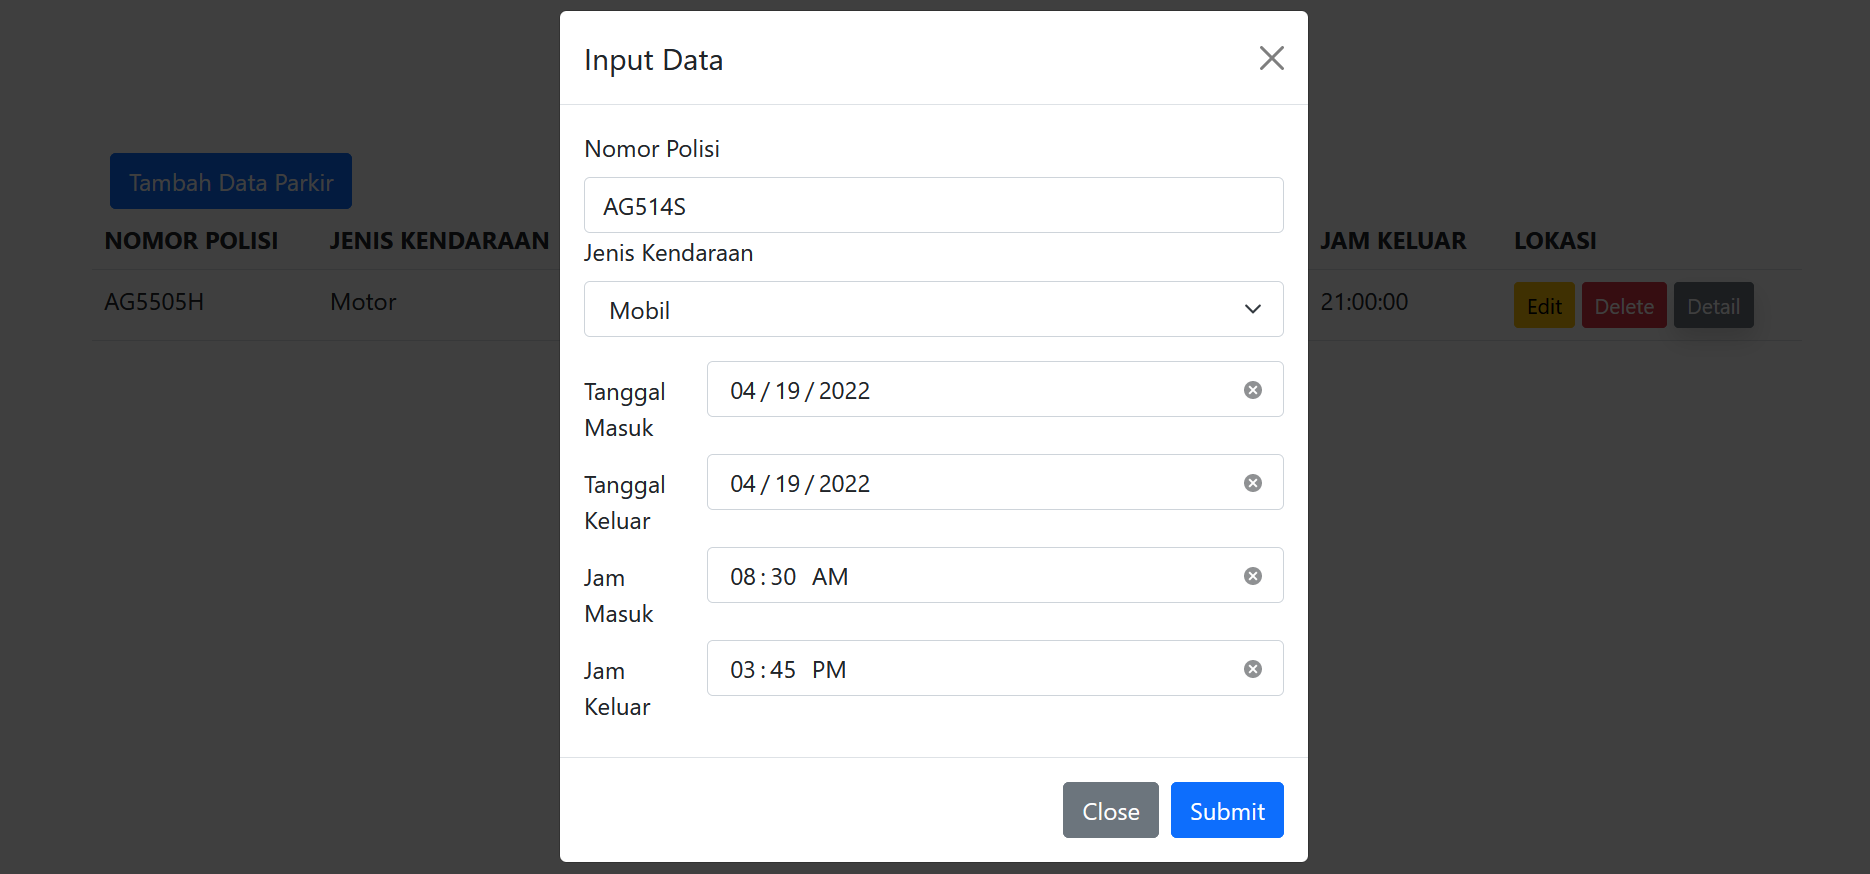
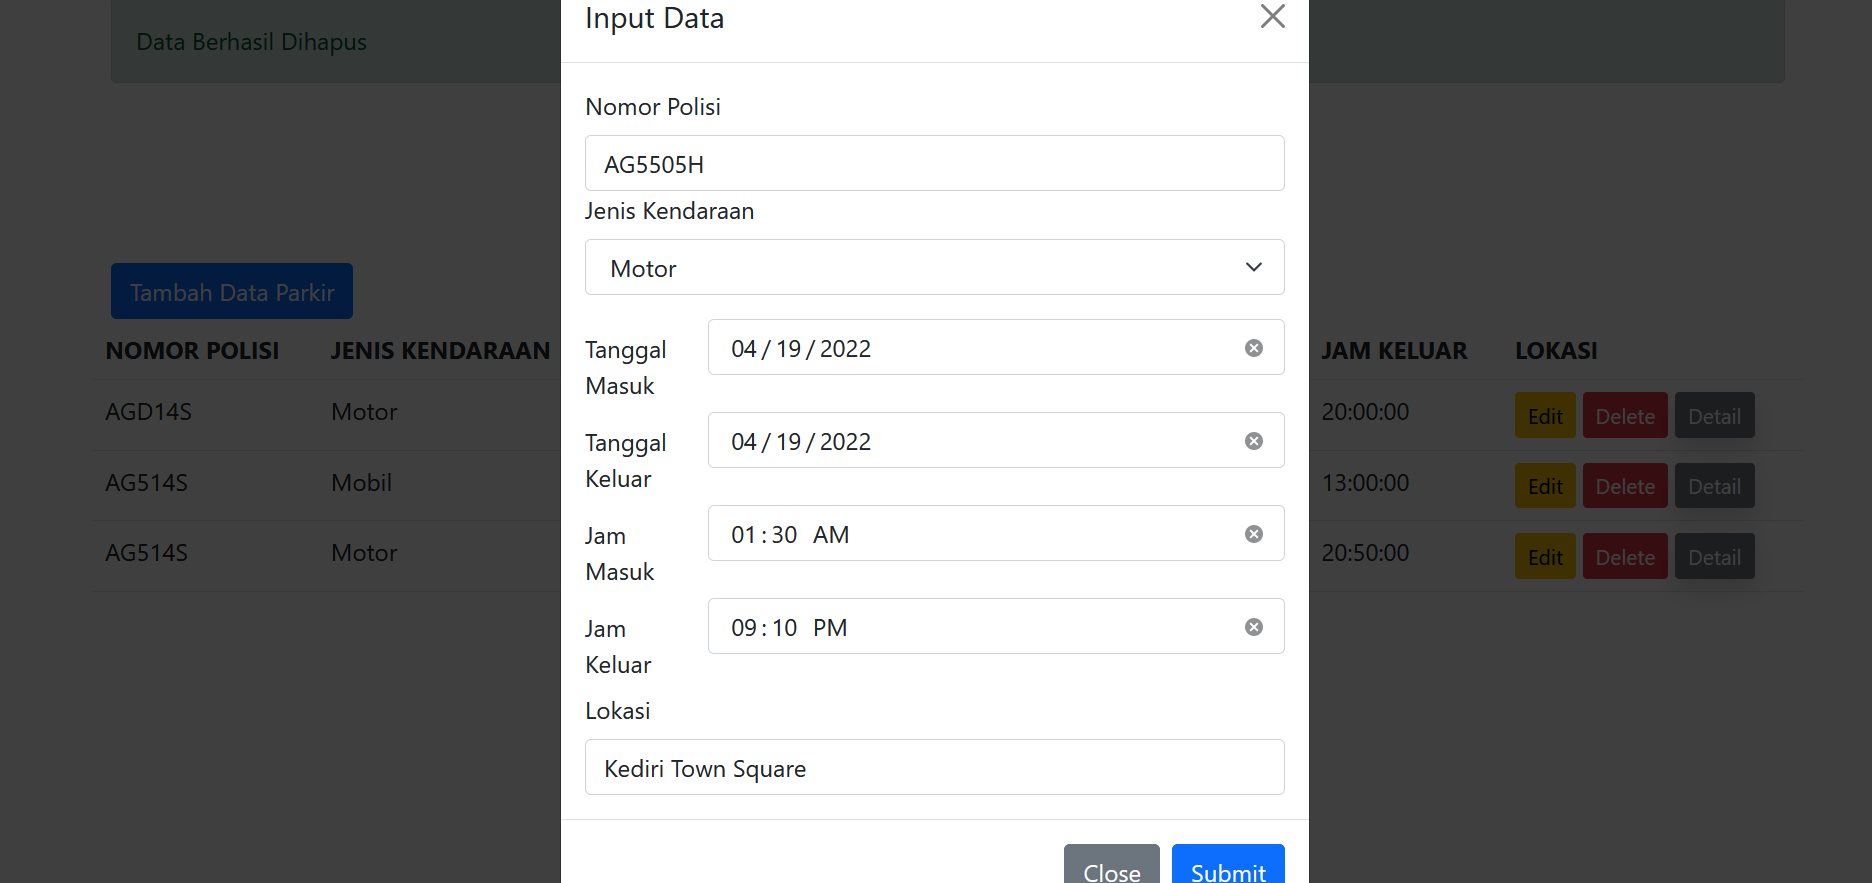
insert

diff --git a/resources/views/parkir/index.blade.php b/resources/views/parkir/index.blade.php
@@ -40,7 +40,6 @@
                         <td>{{$parkir->tgl_keluar}}</td>
                         <td>{{$parkir->jam_masuk}}</td>
                         <td>{{$parkir->jam_keluar}}</td>
-                      
                         <td>
                             <a href="/parkir/{{$parkir->nomor_tiket}}/edit" class="btn btn-warning btn-sm"></i>Edit</a>
                             <a href="/parkir/{{$parkir->nomor_tiket}}/delete" class="btn btn-danger btn-sm" onclick="return confirm('Apakah Anda Yakin Menghapus Data?');"></i>Delete</a>
@@ -105,12 +104,12 @@
                         </div>
                     </div>
 
-                    {{-- <div class="form-group">
+                    <div class="form-group">
                         <label for="exampleInputEmail1" class="form-label">Lokasi</label>
-                        <input name="tempat" type="text" class="form-control" id="exampleInputEmail1" aria-describedby="emailHelp">
+                        <input name="nama" type="text" class="form-control" id="exampleInputEmail1" aria-describedby="emailHelp">
                     </div>
 
-                    <div class="form-group">
+                    {{-- <div class="form-group">
                         <label for="exampleInputEmail1" class="form-label">Lantai</label>
                         <input name="lantai" type="number" class="form-control" id="exampleInputEmail1" aria-describedby="emailHelp">
                     </div> --}}

diff --git a/app/Http/Controllers/ParkirController.php b/app/Http/Controllers/ParkirController.php
@@ -4,7 +4,7 @@ namespace App\Http\Controllers;
 
 use Illuminate\Http\Request;
 use App\Models\Parkir;
-use App\Models\lokasiParkir;
+use App\Models\Location;
 
 class ParkirController extends Controller
 {
@@ -24,20 +24,24 @@ class ParkirController extends Controller
             'jam_masuk' => 'required',
             'jam_keluar' => 'required',
         ]);*/
-        Parkir::create($request->all());
-        /*$data_parkir = $request->all();
+        //Parkir::create($request->all());
+        $data_parkir = $request->all();
+
+        $lokasiParkir = new Location;
+        $lokasiParkir->nama = $data_parkir['nama'];
+        $lokasiParkir->save();
+
+
         $parkir = new Parkir;
+        $parkir->location_id = $lokasiParkir->id;
         $parkir->nomor_polisi = $data_parkir['nomor_polisi'];
         $parkir->jenis_kendaraan = $data_parkir['jenis_kendaraan'];
         $parkir->tgl_masuk = $data_parkir['tgl_masuk'];
         $parkir->tgl_keluar = $data_parkir['tgl_keluar'];
         $parkir->jam_masuk = $data_parkir['jam_masuk'];
         $parkir->jam_keluar = $data_parkir['jam_keluar'];
+        $parkir->save();
 
-        $lokasiParkir = new lokasiParkir;
-        $lokasiParkir->parkir_id = $parkir->nomor_tiket;
-        $lokasiParkir->tempat = $data_parkir['tempat'];
-        $lokasiParkir->lantai = $data_parkir['lantai'];*/
         return redirect('/')->with('sukses', 'Data Berhasil Ditambahkan');
     }
 

diff --git a/resources/views/parkir/create.blade.php b/resources/views/parkir/create.blade.php
@@ -77,6 +77,14 @@
                                                 @enderror
                                         </div>
 
+                                        <div class="form-group">
+                                            <label for="nama">Lokasi</label>
+                                            <input class="form-control" type="text" name="nama" value="{{ old('nama') }}" class="@error('nama') is-invalid @enderror">
+                                            @error('nama')
+                                                       <div class="alert alert-danger">{{ $message }}</div>
+                                               @enderror
+                                        </div>
+
                                         <div class="form-group" align="right">
                                             <input class="btn btn-primary" type="submit" value="Submit">
                                         </div>

diff --git a/database/migrations/2022_04_19_025729_create_locations_table.php b/database/migrations/2022_04_19_025729_create_locations_table.php
@@ -1,0 +1,32 @@
+<?php
+
+use Illuminate\Database\Migrations\Migration;
+use Illuminate\Database\Schema\Blueprint;
+use Illuminate\Support\Facades\Schema;
+
+class CreateLocationsTable extends Migration
+{
+    /**
+     * Run the migrations.
+     *
+     * @return void
+     */
+    public function up()
+    {
+        Schema::create('locations', function (Blueprint $table) {
+            $table->id();
+            $table->string('nama');
+            $table->timestamps();
+        });
+    }
+
+    /**
+     * Reverse the migrations.
+     *
+     * @return void
+     */
+    public function down()
+    {
+        Schema::dropIfExists('locations');
+    }
+}

diff --git a/resources/views/parkir/edit.blade.php b/resources/views/parkir/edit.blade.php
@@ -61,7 +61,7 @@
 
                 {{-- <div class="mb-3">
                     <label for="exampleInputEmail1" class="form-label">Lokasi</label>
-                    <input name="tempat" type="text" class="form-control" id="exampleInputEmail1" aria-describedby="emailHelp" value="{{$lokasiParkir->tempat}}">
+                    <input name="nama" type="text" class="form-control" id="exampleInputEmail1" aria-describedby="emailHelp" value="{{$lokasiParkir->nama}}">
                 </div>
 
                 <div class="mb-3">

diff --git a/app/Models/Parkir.php b/app/Models/Parkir.php
@@ -4,6 +4,7 @@ namespace App\Models;
 
 use Illuminate\Database\Eloquent\Factories\HasFactory;
 use Illuminate\Database\Eloquent\Model;
+use App\Models\Location;
 
 class Parkir extends Model
 {
@@ -11,4 +12,9 @@ class Parkir extends Model
     protected $primaryKey = 'nomor_tiket';
     protected $fillable = ['nomor_polisi', 'jenis_kendaraan', 'tgl_masuk', 'tgl_keluar', 'jam_masuk', 'jam_keluar'];
     use HasFactory;
+
+    public function Location()
+    {
+        return $this->belongsTo(Location::class);
+    }
 }

diff --git a/app/Models/Location.php b/app/Models/Location.php
@@ -1,0 +1,18 @@
+<?php
+
+namespace App\Models;
+
+use Illuminate\Database\Eloquent\Factories\HasFactory;
+use Illuminate\Database\Eloquent\Model;
+
+class location extends Model
+{
+    use HasFactory;
+    protected $table = 'locations';
+    protected $guarded = ['id'];
+
+    public function Parkir()
+    {
+        return $this->hasMany(Parkir::class);
+    }
+}

diff --git a/database/migrations/2021_05_11_060610_create_parkir_table.php b/database/migrations/2021_05_11_060610_create_parkir_table.php
@@ -15,6 +15,7 @@ class CreateParkirTable extends Migration
     {
         Schema::create('parkir', function (Blueprint $table) {
             $table->increments('nomor_tiket');
+            $table->foreignId('location_id');
             $table->string('nomor_polisi');
             $table->string('jenis_kendaraan');
             $table->date('tgl_masuk');
